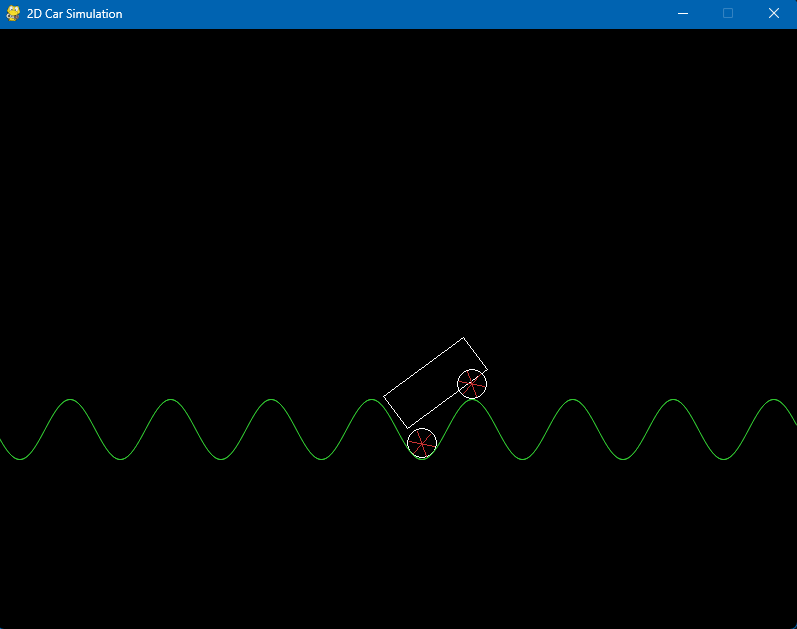
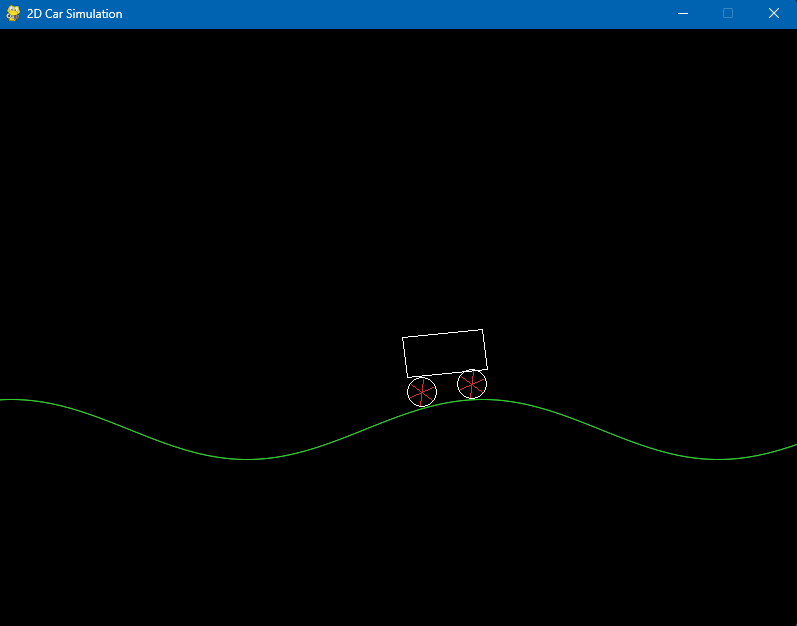
Update of README.md

diff --git a/README.md b/README.md
@@ -1,2 +1,47 @@
+# 2D Car on a Sinewave (Pygame)
+
+A tiny 2D demo of a car driving over a scrolling sine-wave ground.  
+Use it to play with wheel spin, terrain scrolling, and a simple suspension effect.
+
+## Controls
+- **Left / Right**: accelerate / decelerate (scroll the terrain)
+- **Space**: brake
+- **Up / Down**: change sine wavelength (v4)
+
+---
+
+## What’s new in v4 (main.py)
+- 🔧 **Adjustable wavelength** with Up/Down (live tweak of the sine `k`).
+- 🛞 **Wheels stick to the ground** while the wave scrolls (kept from v3).
+- 🚗 **Car body tilted to the slope** between wheels (body is drawn as a rotated quad).
+- ✳ **Three spokes per wheel** for clearer spin feedback.
+- 🟢 **Anti-aliased ground polyline** for a smoother curve.
+
+---
+
+## Changelog
+
+### v4 (main.py)
+- Adds wavelength control (Up/Down).
+- Keeps wheels constrained to terrain height.
+- Computes a rotated rectangle for the car based on wheel centers.
+- Uses three spokes per wheel.
+
+### v3
+- Wheels sample the ground height and **ride on the wave** (simple “suspension” look).
+- Terrain scrolls with phase; car body not yet rotated.
+
+### v2
+- Introduces **sinewave ground** and **scrolling** (phase).
+- Wheels spin with velocity; car rides over a moving curve but wheels don’t stick yet.
+
+### v1
+- Flat ground line.
+- Basic left/right motion with damping + brake.
+- Wheels with spokes to visualize rotation.
+
+---
+
+## Screenshots
 ![Demo 1 of V4](./assets/demo1_v4.png)
 ![Demo 2 of V4](./assets/demo2_v4.png)
